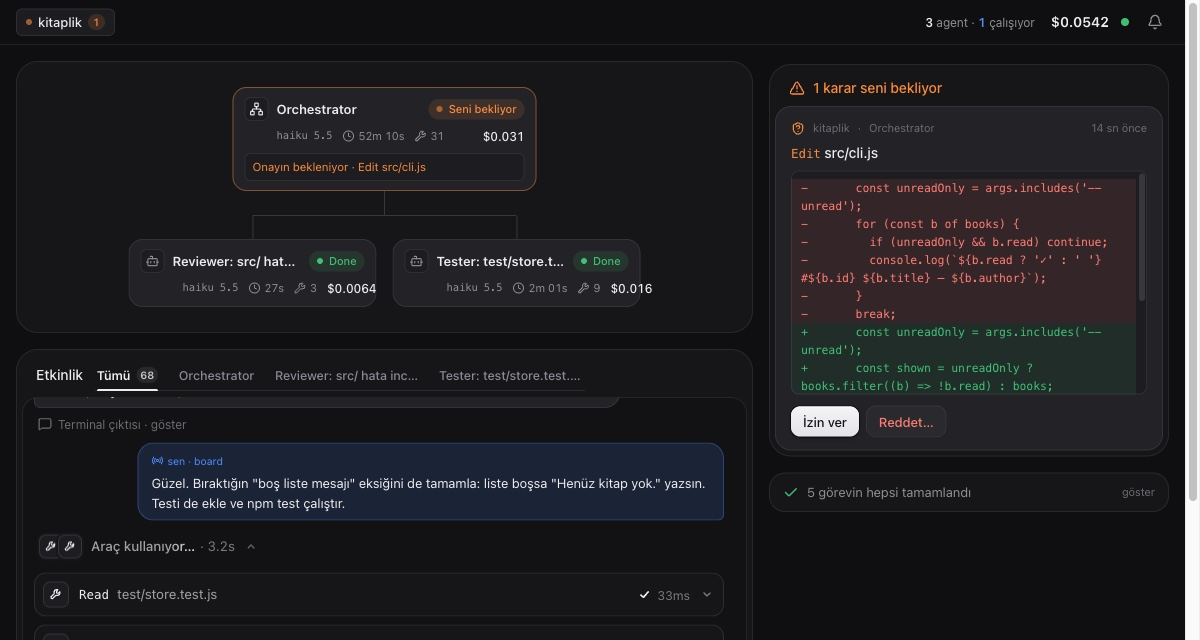
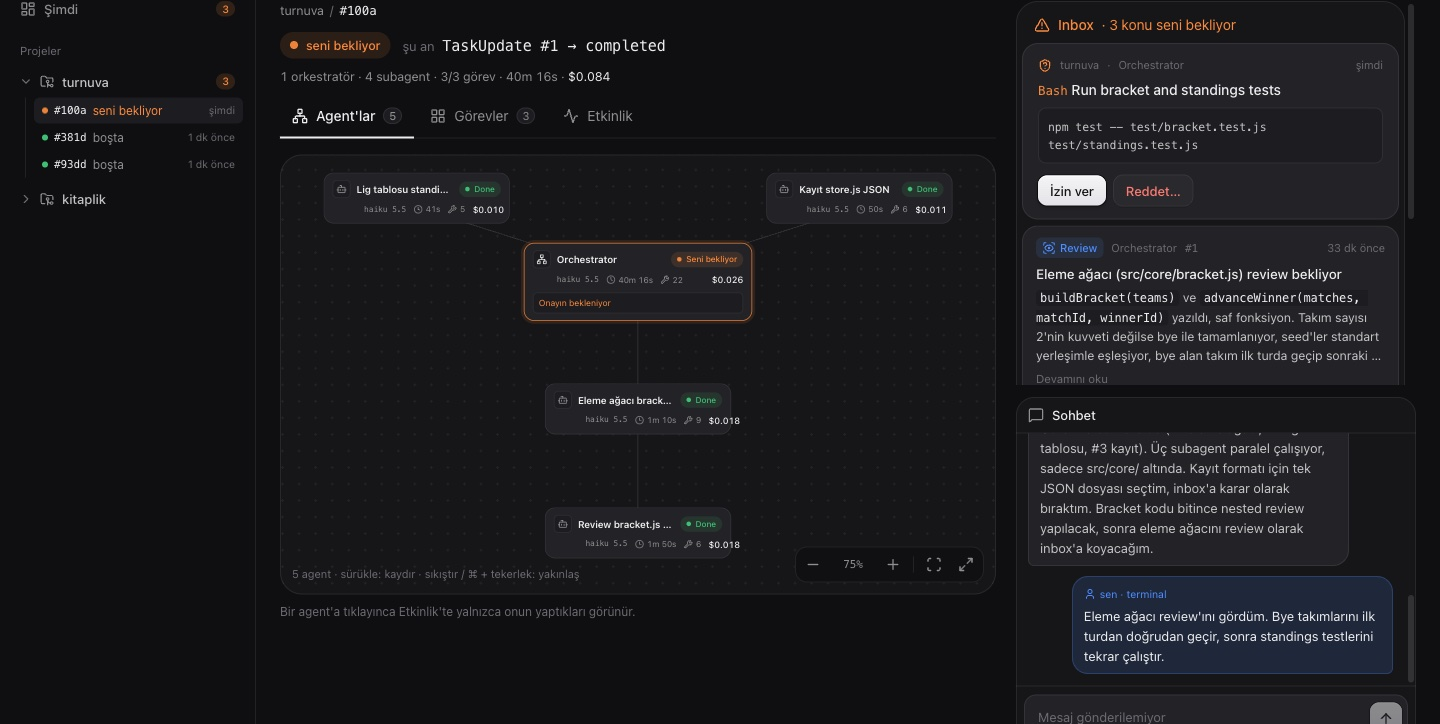
README and landing page for the current board
- README: the screens as they are now (left menu, Şimdi, project, session),
  the two ways to use it (watch without setup, claude-board for control),
  task ↔ agent matching, privacy of transcript reading, updated limits
- landing: copy for transcript watching, three steps (install, open the
  board, claude-board for control), new screenshot made from test-project
  data only, feature list for map / inbox / Şimdi / task flow

Claude-Session: https://claude.ai/code/session_0154z5JQgFFq1fD7K3fEov4u

diff --git a/site/index.html b/site/index.html
@@ -4,7 +4,7 @@
   <meta charset="utf-8" />
   <meta name="viewport" content="width=device-width, initial-scale=1" />
   <title>agent-board · Claude Code için canlı pano</title>
-  <meta name="description" content="Claude Code terminalde çalışmaya devam eder. agent-board agent'ları canlı gösterir; izinleri, soruları ve mesajları tarayıcıdan yönetirsin." />
+  <meta name="description" content="Claude Code terminalde çalışmaya devam eder. agent-board makinedeki bütün oturumları, agent'ları ve görevleri canlı gösterir; izinleri, kararları ve mesajları tarayıcıdan yönetirsin." />
   <meta property="og:title" content="agent-board" />
   <meta property="og:description" content="Terminalde çalış, kararları tarayıcıdan ver. Claude Code için canlı pano." />
   <meta property="og:image" content="https://agent-board.ofd.works/board.jpg" />
@@ -213,7 +213,7 @@
       <section class="hero">
         <div>
           <h1>Terminalde çalış.<span>Kararları tarayıcıdan ver.</span></h1>
-          <p class="lede">Claude Code terminalde olduğu gibi çalışır. agent-board her oturumu, subagent'ları ve görevleri canlı gösterir; izin isteklerine, sorulara ve mesajlara tarayıcıdan cevap verirsin.</p>
+          <p class="lede">Claude Code terminalde olduğu gibi çalışır. agent-board makinedeki bütün oturumları tek panoda toplar: kim çalışıyor, kim seni bekliyor, agent'lar ne yapıyor, görevler nereye geldi. İzinlere, kararlara ve mesajlara tarayıcıdan cevap verirsin.</p>
           <div class="install">
             <div class="cmd"><code id="c0"><b>$</b> git clone https://github.com/omerfarukdemiral/agent-board &amp;&amp; cd agent-board &amp;&amp; npm run setup</code><button class="copy" data-copy="c0">Kopyala</button></div>
             <p>Node 18+ ve Claude Code yeterli. Her şey senin makinende kalır.</p>
@@ -271,26 +271,27 @@
                 <div class="cmd"><code id="c1">git clone https://github.com/omerfarukdemiral/agent-board ~/tools/agent-board &amp;&amp; cd ~/tools/agent-board &amp;&amp; npm run setup</code><button class="copy" data-copy="c1">Kopyala</button></div>
               </li>
               <li>
-                <h3>Projende claude yerine claude-board yaz</h3>
-                <p>Argümanların hepsi claude'a geçer. Açılıştaki channels uyarısını Enter ile geç.</p>
-                <div class="cmd"><code id="c2">cd ~/projem &amp;&amp; claude-board</code><button class="copy" data-copy="c2">Kopyala</button></div>
+                <h3>Board'u aç, oturumların zaten orada</h3>
+                <p>Board <code>localhost:4317</code> adresinde açılır. O an açık olan Claude Code oturumları, nasıl başlatılmış olurlarsa olsunlar, kurulumsuz belirir: agent'lar, görevler, sohbet ve maliyet.</p>
+                <div class="cmd"><code id="c2">npm --prefix ~/tools/agent-board start</code><button class="copy" data-copy="c2">Kopyala</button></div>
               </li>
               <li>
-                <h3>Board kendiliğinden açılır</h3>
-                <p>Her yeni oturum <code>localhost:4317</code> adresinde bir sekme olarak belirir. Birden fazla terminal açarsan hepsi aynı panoda.</p>
+                <h3>Tam kontrol için claude-board</h3>
+                <p>Projende <code>claude</code> yerine <code>claude-board</code> yaz. İzinleri ve soruları panodan cevaplar, çalışan oturuma panodan yazarsın. Açılıştaki channels uyarısını Enter ile geç.</p>
+                <div class="cmd"><code id="c3">cd ~/projem &amp;&amp; claude-board</code><button class="copy" data-copy="c3">Kopyala</button></div>
               </li>
             </ol>
           </div>
           <div>
             <figure class="shot">
-              <img src="board.jpg" width="1200" height="640" loading="lazy" alt="agent-board: orkestratör ve iki subagent'lı ağaç, Edit onayı bekleyen kart, etkinlik akışı ve mesaj kutusu" />
-              <figcaption>Gerçek bir oturum: iki paralel subagent bitti, orkestratör bir Edit için onayını bekliyor.</figcaption>
+              <img src="board.jpg" width="1440" height="724" loading="lazy" alt="agent-board: solda projeler ve oturumlar, ortada orkestratör ve dört subagent'lı harita, sağda onay bekleyen bir komut, review kaydı ve sohbet" />
+              <figcaption>Turnuva platformu testinden bir oturum: subagent'lar bitti, orkestratör bir komut için onayını bekliyor, eleme ağacı review'da.</figcaption>
             </figure>
             <dl class="feat">
-              <div><dt>Canlı agent ağacı</dt><dd>Orkestratör, subagent'lar ve iç içe olanlar; durum, süre, o anki araç ve api eşdeğeri maliyet.</dd></div>
-              <div><dt>Onay ve sorular</dt><dd>Komut, diff ve dosya içeriği önizlemesiyle. Terminalden de cevaplayabilirsin, hangisi önce gelirse.</dd></div>
-              <div><dt>Board'dan mesaj</dt><dd>Çalışan oturuma yaz; Claude işini yapar, cevabını panoya bırakır.</dd></div>
-              <div><dt>Görev listesi</dt><dd>Claude'un açtığı görevler ilerledikçe işaretlenir.</dd></div>
+              <div><dt>Agent haritası</dt><dd>Orkestratör ortada, subagent'lar etrafında. Yakınlaştır, kaydır; her agent'ın durumu, o anki aracı ve maliyeti.</dd></div>
+              <div><dt>Inbox</dt><dd>İzin istekleri, Claude'un senin yerine verdiği kararlar ve okuman gereken notlar. Terminalden de cevaplanabilir, hangisi önce gelirse.</dd></div>
+              <div><dt>Şimdi ekranı</dt><dd>Bütün projeler tek bakışta: çalışanlar, seni bekleyenler, son hareket edenler.</dd></div>
+              <div><dt>Görev akışı</dt><dd>Yapılacak, Çalışılıyor, Review, Bitti. Her kartta işi yapan agent.</dd></div>
             </dl>
           </div>
         </div>
@@ -298,7 +299,7 @@
     </main>
 
     <footer>
-      <p>Sunucu yalnızca 127.0.0.1'de çalışır, dışarı istek atmaz; onaylar sayfaya özel bir anahtarla korunur. Board'dan mesajlaşma Claude Code'un deneysel channels özelliğine dayanır.</p>
+      <p>Sunucu yalnızca 127.0.0.1'de çalışır, dışarı istek atmaz; onaylar sayfaya özel bir anahtarla korunur. Kurulumsuz izleme salt okunurdur; board'dan mesajlaşma Claude Code'un deneysel channels özelliğine dayanır.</p>
       <p>Arayüzde affectUI'nin ücretsiz (MIT) bileşenleri kullanılır. <a href="https://github.com/omerfarukdemiral/agent-board">Kaynak kodu GitHub'da</a>.</p>
     </footer>
   </div>

diff --git a/README.md b/README.md
@@ -2,17 +2,37 @@
 
 Kurulum sayfası: https://agent-board.ofd.works
 
-Claude Code terminalde (cmux, iTerm, ne kullanıyorsan) her zamanki gibi çalışır. agent-board hook'larla dinler, tarayıcıda canlı bir pano gösterir. Onay ya da seçim gereken anlarda cevabı oradan verebilirsin, çalışan oturuma oradan mesaj da yazabilirsin.
+Claude Code terminalde (cmux, iTerm, ne kullanıyorsan) her zamanki gibi çalışır. agent-board makinedeki oturumları canlı bir panoda gösterir: hangisi çalışıyor, hangisi seni bekliyor, agent'lar ne yapıyor, görevler nereye geldi, ne kadara mal oldu. `claude-board` ile açtığın oturumlarda onayları ve soruları panodan cevaplar, Claude'a panodan yazarsın.
 
 Genelden özele: **Proje → Oturum → Agent → Görev.**
 
-- **proje ağacı:** solda projeler ve oturumları; her oturumda durum (çalışıyor / seni bekliyor / boşta / bitti) ve kaç orkestratör, kaç subagent olduğu.
-- **akış panosu:** projedeki görevler Yapılacak / Çalışılıyor / Review / Bitti sütunlarında akar, her kartta işi yapan agent görünür. İki gruplama: **Görev → Agent** ya da **Agent → Görev** (her agent bir şerit). Göreve bağlanmamış subagent'lar da "agent işi" kartı olarak akar. Review = seni bekleyen işler: yürüten agent onay bekliyorsa ya da Claude review istediyse.
-- **inbox (proje bazında):** izin istekleri ve sorular, Claude'un senin yerine verip itiraz edebileceğin **kararlar**, review bekleyen işler ve okuman gereken **bilgi notları**. "Okudum" ile kapatır, "Cevapla" ile çalışan oturuma yazarsın.
-- **orkestrasyon:** bir oturumun agent ağacı (nested dahil), canlı etkinlik akışı ve mesaj kutusu. Akıştaki bir karta tıklayınca o agent'a inilir.
-- **sayaçlar ve maliyet:** canlı oturum, orkestratör, subagent ve görev sayıları; agent başına api eşdeğeri maliyet.
+## ekranlar
 
-Görev ile agent eşleşmesi: Claude subagent açıklamasını görev numarasıyla başlatırsa (`#3 …`) kesin; yoksa görev başlığı ile subagent açıklaması arasındaki kelime örtüşmesinden tahmin edilir. Görev listesi için `claude-board` görev araçlarını açar (`CLAUDE_CODE_ENABLE_TODO_TOOLS=1`), inbox ve görev numarası kurallarını da kanal üzerinden Claude'a anlatır.
+**sol menü.** En üstte **Şimdi**, altında açılır-kapanır projeler ve her projenin oturumları: durum noktası, `#id`, durum ve son hareket. Çalışan projeler üstte ve açık gelir, seçimin hatırlanır. Uzun süredir sessiz oturumlar ve kapanmış projeler katlanır. Telefonda menü bir çekmecedir.
+
+Durumlar her yerde aynı kuralla hesaplanır:
+- **seni bekliyor:** onay, soru ya da bir karar senden cevap bekliyor
+- **çalışıyor:** bir agent çalışıyor ve son 3 dakikada olay geldi
+- **boşta:** açık ama sessiz
+- **kapandı:** Claude süreci sona erdi
+
+**Şimdi.** Önce seni bekleyenler (yalnızca bir şey bekliyorsa). Sonra çalışan oturumlar kart olarak: proje, "şu an" satırı (`Bash npm test`), kaç subagent'ın çalıştığı, görev ilerlemesi, maliyet. En altta son hareket eden oturumlar, son mesajlarıyla tek satır.
+
+**proje.** Projenin oturumları ve birleşik **görev panosu**: Yapılacak / Çalışılıyor / Review / Bitti. Her kartta işi yapan agent görünür. Review, seni bekleyen işler demek: yürüten agent onay bekliyordur ya da Claude review istemiştir.
+
+**oturum.** Başlıkta durum ve düz bir cümle ("çalışıyor · şu an Bash npm test"), altında üç sekme:
+- **Agent'lar:** orkestratör ortada, subagent'lar etrafında, nested olanlar ebeveynlerinin yönünde. Tuval yakınlaştırılıp kaydırılır: sıkıştır ya da ⌘ + tekerlek, sürükle, "Sığdır". Uzaklaşınca kartlar okunur etiketlere döner. Bir agent'a tıklayınca Etkinlik'te yalnızca onun işleri görünür.
+- **Görevler:** görev varsa, o oturumun panosu.
+- **Etkinlik:** araç çağrıları (argüman ve sonuçlarıyla), subagent'lar, mesajlar.
+
+Sağda o oturumun **inbox**'ı ve tam boy **sohbet** durur.
+
+**inbox.** Üç tür kayıt toplar:
+- izin istekleri ve sorular; komut, diff ya da dosya içeriği önizlemesiyle
+- Claude'un senin yerine verdiği ve itiraz edebileceğin **kararlar**
+- review bekleyen işler ve okuman gereken **bilgi notları**
+
+"Okudum" ile kapatır, "Cevapla" ile çalışan oturuma yazarsın.
 
 ## kurulum
 
@@ -26,38 +46,43 @@ npm run setup
 
 `setup` arayüzü derler ve `claude-board` komutunu `~/.local/bin`'e bağlar. `git pull` sonrası tekrar çalıştır.
 
-## açık oturumları kurulumsuz görmek
+## iki kullanım şekli
 
-Board, makinedeki Claude Code oturumlarını transcript'lerinden de okur: `claude`, cmux ya da başka bir yoldan açılmış, hook'suz oturumlar da son 2 saat içinde yazdılarsa kendiliğinden belirir. Bu oturumlar **salt izlemedir** (sol ağaçta göz ikonu): ağaç, akış, görevler, maliyet ve sohbet görünür; onay vermek ve mesaj göndermek için oturumu `claude-board --resume <id>` ile devam ettir. Canlılık, `ps` çıktısındaki `--session-id` ile Claude sürecine bakılarak anlaşılır.
+**1. kurulumsuz izleme.** Board makinedeki oturumları transcript'lerinden okur: düz `claude`, cmux ya da başka bir yoldan açılmış oturumlar, son 2 saatte yazdılarsa kendiliğinden belirir.
+- Agent'lar, görevler, etkinlik, sohbet ve maliyet görünür; oturum "yalnızca izleme" diye işaretlenir.
+- Onay vermek ve yazmak için hook ve kanal gerekir; bunun için 2'ye geç.
+- Canlılık, `ps` çıktısındaki `--session-id` ile Claude sürecine bakılarak anlaşılır.
 
-- kapatmak: `AGENT_BOARD_TRANSCRIPTS=0`
-- pencere: `AGENT_BOARD_TRANSCRIPT_HOURS` (varsayılan 2)
+**2. `claude-board` ile tam kontrol (önerilen).** Projenin klasöründe `claude` yerine bunu yaz; bütün argümanlar claude'a geçer (`claude-board --resume <id>` gibi).
+- Hook'ları, kanal sunucusunu ve channels bayrağını birlikte yükler.
+- Görev araçlarını açar (`CLAUDE_CODE_ENABLE_TODO_TOOLS=1`) ve Claude'a görev listesi tutmasını, devrettiği işi görev numarasıyla (`#3 …`) başlatmasını, inbox'ı kullanmasını söyler.
+- Her açılışta "Loading development channels" uyarısı çıkar, **Enter** ile geçilir.
+- Projede hiçbir dosya değişmez.
 
-## bir projede kullanmak
+İlk açılışta sunucu kendiliğinden başlar ve `http://localhost:4317` açılır. Sayfa zaten açıksa yeni sekme açılmaz.
 
-**`claude-board` (önerilen).** Projenin klasöründe `claude` yerine bunu yaz. Bütün argümanlar claude'a geçer (`claude-board --resume` gibi). Hook'ları, kanal sunucusunu ve channels bayrağını birlikte yükler. Her açılışta "Loading development channels" uyarısı çıkar, **Enter** ile geçilir. Projede hiçbir dosya değişmez.
-
-**sadece izleme ve onay.** Mesaj kutusu gerekmiyorsa uyarı ekranı da çıkmaz:
-```sh
-claude --plugin-dir ~/tools/agent-board
-```
-
-**projeye kalıcı bağlamak.** Ekipçe değil sadece sende çalışacaksa `.claude/settings.local.json` dosyasını kullan:
-```sh
-npm --prefix ~/tools/agent-board run -s settings > .claude/settings.local.json
-```
-(Dosya zaten varsa üzerine yazmak yerine içindeki `hooks` bloğunu birleştir.)
-
-İlk açılışta sunucu kendiliğinden başlar ve `http://localhost:4317` açılır. Sayfa zaten açıksa yeni sekme açılmaz, yeni oturum mevcut sayfada belirir.
+Diğer seçenekler:
+- **sadece hook'lar (onay var, mesaj yok, uyarı ekranı yok):** `claude --plugin-dir ~/tools/agent-board`
+- **projeye kalıcı bağlamak (yalnızca sende):** `npm --prefix ~/tools/agent-board run -s settings > .claude/settings.local.json` (dosya varsa `hooks` bloğunu birleştir)
 
 ## onay nasıl çalışır
 
-`PermissionRequest` hook'u board'a bağlanıp bekler. Claude'un terminaldeki kendi onay penceresi de **aynı anda** açıktır. Hangisinden önce cevap verirsen o geçer. Bu davranış gerçek bir etkileşimli oturumda test edildi:
-- board'dan "İzin ver" denince terminal penceresi kapanır, araç çalışır ("Allowed by PermissionRequest hook").
-- terminalden cevap verilince Claude board'u beklemez. Board'daki kart "terminalde cevaplandı" olarak kapanır.
-- **Reddet…** butonuna yazdığın gerekçe Claude'a iletilir ve Claude ona göre yön değiştirir.
-- **Bu oturumda hep izin ver** butonu, Claude'un önerdiği izin kuralını o oturuma ekler.
-- sunucu kapalıysa hiçbir şey değişmez, terminal akışı normal devam eder.
+`PermissionRequest` hook'u board'a bağlanıp bekler; Claude'un terminaldeki onay penceresi de **aynı anda** açıktır. Hangisinden önce cevap verirsen o geçer. Gerçek etkileşimli oturumlarda test edildi:
+- **board'dan "İzin ver":** terminal penceresi kapanır, araç çalışır ("Allowed by PermissionRequest hook").
+- **terminalden cevap:** Claude board'u beklemez; board'daki kart "başka yerden cevaplandı" olarak kapanır. "Bu oturumda hep izin ver"den sonra Claude'un kendi onayladıkları da böyle görünür.
+- **Reddet…:** yazdığın gerekçe Claude'a iletilir.
+- **subagent'lar:** bekleyen istekler agent bazında takip edilir; bir subagent'ın beklemesi, başka bir agent bitince kapanmaz.
+- **sunucu kapalıysa:** hiçbir şey değişmez, terminal akışı normal devam eder.
+
+## görev ile agent eşleşmesi
+
+Claude Code hangi görevi hangi agent'ın yaptığını kaydetmez. Board şu sırayla eşleştirir:
+1. subagent açıklaması görev numarasıyla başlıyorsa (`#3 …`): kesin eşleşme. Bir görev birden fazla subagent'a bölünebilir; kartta ana agent ve "+N" görünür.
+2. görevi kendi güncelleyen subagent.
+3. görev başlığı ile subagent açıklaması arasındaki kelime örtüşmesi. "test" ve "npm" gibi genel kelimeler sayılmaz, dosya yollarının parçaları sayılır.
+4. son çare olarak görevi güncelleyen agent.
+
+Tahmini eşleşmeler kartın ipucunda belirtilir.
 
 ## ayarlar (ortam değişkenleri)
 
@@ -68,35 +93,42 @@ npm --prefix ~/tools/agent-board run -s settings > .claude/settings.local.json
 | `AGENT_BOARD_OPEN` | — | `0`: tarayıcıyı hiç açma, `1`: her oturumda aç |
 | `AGENT_BOARD_APPROVALS` | — | `0`: onayları board'a taşıma, sadece izle |
 | `AGENT_BOARD_TRANSCRIPTS` | — | `0`: hook'suz oturumları transcript'ten okuma |
-| `AGENT_BOARD_TRANSCRIPT_HOURS` | `2` | transcript'i bu kadar saat içinde yazılmış oturumlar okunur |
+| `AGENT_BOARD_TRANSCRIPT_HOURS` | `2` | bu kadar saat içinde yazılmış transcript'ler okunur |
 
-## güvenlik
+## güvenlik ve mahremiyet
 
 Sunucu yalnızca `127.0.0.1`'e bağlanır, dışarıya istek atmaz (fontlar dahil). Onay vermek bir güvenlik kararı olduğu için:
-- `/decision` yalnızca sunucunun her açılışta ürettiği ve sadece kendi sayfasına gömdüğü token ile çalışır.
-- tarayıcıdan gelen yabancı `Origin` reddedilir.
+- `/decision`, sunucunun her açılışta ürettiği ve yalnızca kendi sayfasına gömdüğü bir token ile çalışır.
+- Tarayıcıdan gelen yabancı `Origin` reddedilir.
 - `Host` başlığı `localhost`/`127.0.0.1` değilse istek reddedilir (DNS rebinding).
+
+Transcript okuma, makinedeki son 2 saatin bütün Claude oturumlarını kapsar. Her şey yerelde kalır; istemezsen `AGENT_BOARD_TRANSCRIPTS=0`.
 
 ## maliyet
 
-Transcript'lerdeki `message.usage` alanları `message.id` bazında tekilleştirilir (streaming aynı mesajı 2-3 kez yazar), cache yazımı 5m/1h olarak ayrı fiyatlanır. Spike ve canlı testte sonuç Claude Code'un kendi `cost-state` toplamıyla birebir tuttu. Fiyatlar `server/pricing.json` dosyasında. Abonelikle kullanıyorsan bu gerçek fatura değil, **api eşdeğeri**.
+Transcript'lerdeki `message.usage` alanları `message.id` bazında tekilleştirilir (streaming aynı mesajı 2-3 kez yazar), cache yazımı 5m/1h olarak ayrı fiyatlanır. Sonuç, testlerde Claude Code'un kendi `cost-state` toplamıyla birebir tuttu. Fiyatlar `server/pricing.json` dosyasında; fiyatı bilinmeyen kalemler "—" olarak gösterilir, tahmin yazılmaz. Abonelikle kullanıyorsan bu gerçek fatura değil, **api eşdeğeri**.
 
 ## bilinen sınırlar
 
-- **mesajlaşma research preview'a dayanıyor:** channels Claude Code'da deneysel bir özellik ve özel kanallar `--dangerously-load-development-channels` bayrağı istiyor. Team/Enterprise hesaplarda org yöneticisinin channels'ı açması gerekir. Mesaj Claude meşgulken gelirse sıradaki turda işlenir.
-- **workflow agent'ları:** Workflow aracının içinde koşan agent'ların hook tetikleyip tetiklemediği dokümanda yok ve henüz test edilmedi. workflow'lar şimdilik "arka plan işleri" panelinde, tur sonunda görünüyor.
-- **hook'tan önce açılan oturumlar:** board açılmadan başlamış oturumlar ilk olayla birlikte belirir, ama PID'leri bilinmediği için kapanınca otomatik "bitti"ye geçmezler.
+- **mesajlaşma deneysel bir özelliğe dayanıyor:** channels Claude Code'da research preview ve özel kanallar `--dangerously-load-development-channels` bayrağı istiyor. Team/Enterprise hesaplarda org yöneticisinin channels'ı açması gerekir. Claude meşgulken gelen mesaj sıradaki turda işlenir.
+- **workflow agent'ları:** Workflow aracının içinde koşan agent'lar henüz test edilmedi. Workflow'lar şimdilik oturum sayfasındaki "arka plan işleri"nde, tur sonunda görünüyor.
+- **sunucu kapalıyken kaybolan olaylar:** sunucu kapalıyken gelen hook olayları kaybolur; hook'lar sessizce vazgeçer. Transcript'ten izlenen oturumlar etkilenmez, çünkü yeniden okunurlar.
 
 ## yapı
 
 ```
 bin/        claude-board: claude + plugin + kanal + channels bayrağı
-channel/    server.js: bağımlılıksız MCP kanal sunucusu (board ↔ Claude)
+channel/    server.js: bağımlılıksız MCP kanal sunucusu (board ↔ Claude, reply + inbox araçları)
 scripts/    setup.js (derle + bağla) · settings.js (proje ayarı üretir)
 hooks/      emit.sh (curl, ~15ms) · permission.sh (long-poll) · ensure-server.js · hooks.json (plugin)
-server/     index.js (http + SSE + statik) · store.js (state, jsonl) · approvals.js · channels.js · transcripts.js · cost.js · pricing.json
-ui/         vite + react 19 + tailwind · src/components/affect/ = affectUI ücretsiz bileşenleri (MIT)
-docs/       spike-findings.md: gerçek payload'lardan çıkan bulgular
+server/     index.js (http + SSE + statik) · store.js (state, jsonl, görev eşleşmesi) · approvals.js
+            channels.js · transcripts.js (hook'suz oturumlar) · cost.js · pricing.json
+ui/         vite + react 19 + tailwind
+            src/views/: Home (Şimdi, proje) · SessionPage
+            src/components/: Sidebar · AgentCanvas · FlowBoard · ProjectInbox · ChatPanel · ActivityFeed
+            src/components/affect/: affectUI ücretsiz bileşenleri (MIT)
+site/       kurulum sayfası (Vercel)
+docs/       spike-findings.md: gerçek oturumlardan ve yük testlerinden çıkan bulgular
 ```
 
-affectUI'den kullanılan ücretsiz (MIT) bileşenler: `tool-call-card`, `thinking-loader`, `segmented-control`, `number-ticker`. Onay kutusu `decision-inbox`, görev listesi `progress-tracker` tasarımından uyarlandı. Pro bileşenlerin kaynağı kullanılmadı.
+affectUI'den kullanılan ücretsiz (MIT) bileşenler: `tool-call-card`, `thinking-loader`, `segmented-control`, `number-ticker`. Onay kartı `decision-inbox`, görev listesi `progress-tracker` tasarımından uyarlandı. Pro bileşenlerin kaynağı kullanılmadı.
